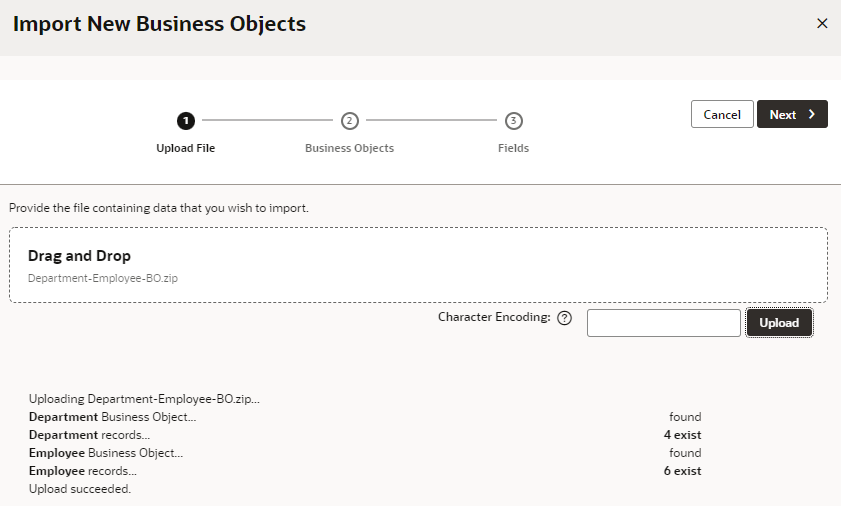
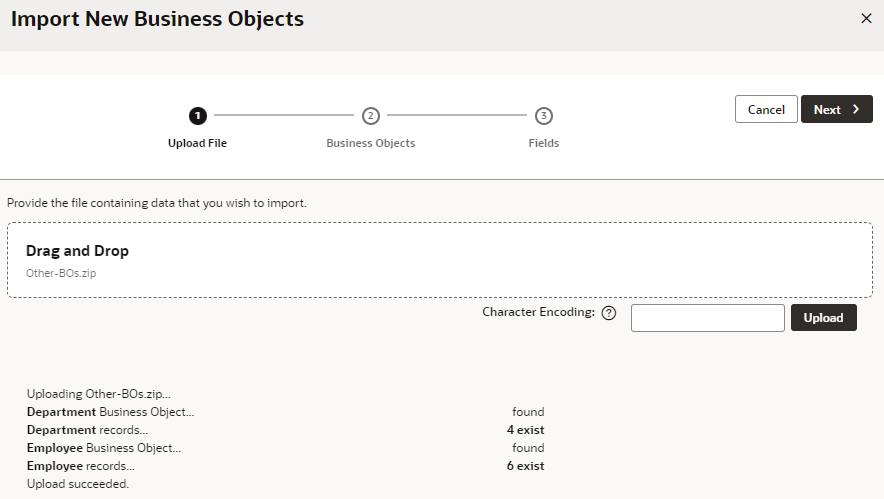
picture URL changes

diff --git a/visual-builder/studio/create-web-app/create-app/create-app.md b/visual-builder/studio/create-web-app/create-app/create-app.md
@@ -148,7 +148,7 @@ Let's now create your first business object and add data to it by importing a CS
 
 Let's now create the Department and Employee business objects. But instead of creating the business objects and fields one by one and importing data for them, you'll import a ZIP file that defines the two business objects with their fields and data all at once.
 
-1. Click [this link](https://objectstorage.us-ashburn-1.oraclecloud.com/p/LNAcA6wNFvhkvHGPcWIbKlyGkicSOVCIgWLIu6t7W2BQfwq2NSLCsXpTL9wVzjuP/n/c4u04/b/livelabsfiles/o/developer-library/Department-Employee-BO.zip) and download the `Department-Employee-BO.zip` file. This ZIP file contains CSV files for the Department and Employee business objects. Feel free to review the contents.
+1. Click [this link](https://objectstorage.us-ashburn-1.oraclecloud.com/p/Ei1_2QRw4M8tQpk59Qhao2JCvEivSAX8MGB9R6PfHZlqNkpkAcnVg4V3-GyTs1_t/n/c4u04/b/livelabsfiles/o/oci-library/Other-BOs.zip) and download the `Other-BOs.zip` file. This ZIP file contains CSV files for the Department and Employee business objects. Feel free to review the contents.
 
 2. In the Navigator's Business Object pane, click **Menu** ![Menu icon](images/menu-icon.png) and select **Data Manager**. The Data Manager is what you use to import data from a variety of sources.
 
@@ -158,7 +158,7 @@ Let's now create the Department and Employee business objects. But instead of cr
 
      ![Manage Application Data page, also known as the Data Manager. Import Business Objects is selected.](images/import-bos.png "Manage Application Data page")
 
-4. On the Upload File step of the Import New Business Objects wizard, click the drag and drop box, select the `Department-Employee-BO.zip` file, and click **Upload**.
+4. On the Upload File step of the Import New Business Objects wizard, click the drag and drop box, select the `Other-BOs.zip` file, and click **Upload**.
 
     When the file is uploaded, you'll see a message that the import contains records for the Department and Employee business objects. Click **Next**.
 

diff --git a/visual-builder/studio/create-web-app/publish-app/publish-app.md b/visual-builder/studio/create-web-app/publish-app/publish-app.md
@@ -81,7 +81,7 @@ After your application is successfully deployed to the development environment, 
 
 A deployed application does not automatically include its business object data, so you'll need to manually import data for the application in the development environment. You can import the data you used in your workspace or add entirely different data, as we'll do now.
 
-1. Click [this link](https://objectstorage.us-ashburn-1.oraclecloud.com/p/LNAcA6wNFvhkvHGPcWIbKlyGkicSOVCIgWLIu6t7W2BQfwq2NSLCsXpTL9wVzjuP/n/c4u04/b/livelabsfiles/o/developer-library/HR-Application.zip) and download the `HR-Application.zip` file. The zip file contains CSV files of the Location, Department, and Employee business objects with more records and data.
+1. Click [this link](https://objectstorage.us-ashburn-1.oraclecloud.com/p/Ei1_2QRw4M8tQpk59Qhao2JCvEivSAX8MGB9R6PfHZlqNkpkAcnVg4V3-GyTs1_t/n/c4u04/b/livelabsfiles/o/oci-library/HR-Application.zip) and download the `HR-Application.zip` file. The zip file contains CSV files of the Location, Department, and Employee business objects with more records and data.
 2. In the Environments page, click **Actions** ![Actions icon](images/vbs-actions-icon.png) for the deployed tutorial-hr-project and select **Import Data**.
 
     ![The Import Data option from the Actions menu of a deployed application is shown.](images/deployed-application-import-data.png "")

diff --git a/visual-builder/studio/create-web-app/add-pages/add-pages.md b/visual-builder/studio/create-web-app/add-pages/add-pages.md
@@ -220,7 +220,7 @@ Add a Create page that lets your users create new employees.
 
 7. Click **Live** to make the form active. Enter or select the following (you can use other data if you wish):
     * **Name**: `Walter`
-    * **Picture**: `https://www.oracle.com/webfolder/technetwork/jet/images/hcm/placeholder-male-05.png`
+    * **Picture**: `https://www.oracle.com/webfolder/technetwork/jet/content/images/hcm/placeholder-male-05.png`
     * **Hire Date**:  Select today's date
     * **Email**: `walter@example.com`
     * **Department**: `IT`

diff --git a/visual-builder/studio/create-web-app/add-other-pages/add-other-pages.md b/visual-builder/studio/create-web-app/add-other-pages/add-other-pages.md
@@ -135,7 +135,7 @@ Now that we've added options to let users manage departments, we'll do the same 
 
 6. Click **Create** and specify the data for a new employee, for example:
     * **Name**: `Shayla`
-    * **Picture**: `https://www.oracle.com/webfolder/technetwork/jet/images/hcm/placeholder-female-16.png`
+    * **Picture**: `https://www.oracle.com/webfolder/technetwork/jet/content/images/hcm/placeholder-female-16.png`
     * **Hire Date**: Select today's date
     * **Email**: `shayla@example.com`
     * **Department**: `Marketing`
